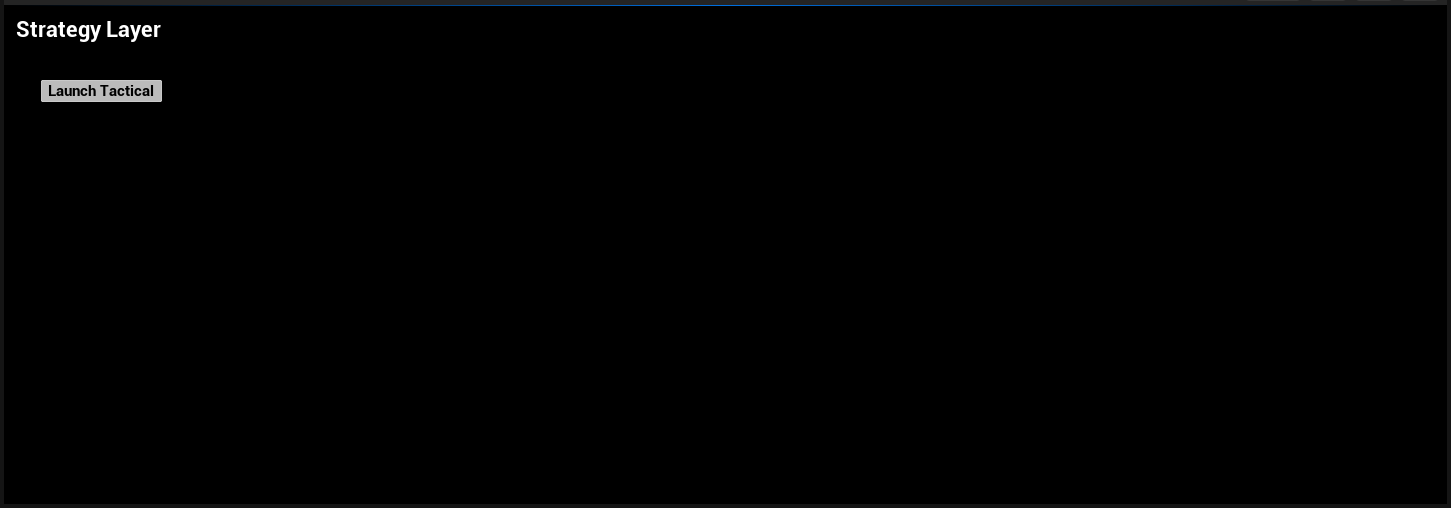
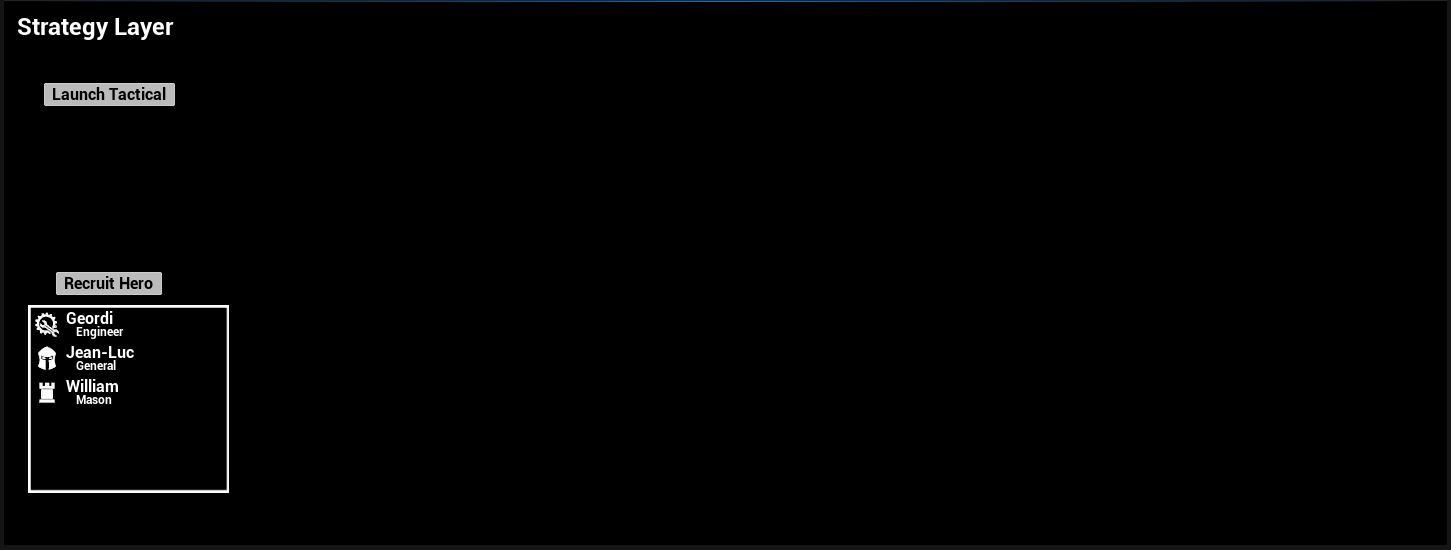
Release Notes Update
Update the Readme, devlog and pictures for the July "release"

diff --git a/README.md b/README.md
@@ -66,6 +66,7 @@ Quick Highlights of how each Starfire Plugin is being used:
 	* Various uses to broadcast gameplay events
 	* Campaign game modes broadcast a readiness event
 	* A roster event is broadcast when new heroes are added to the active list
+	* An event is broadcast in strategy just before the BattleData is destroyed to give strategy systems a chance to update based on any data that may have been returned from Tactical in that Actor
 * Starfire Assets
 	* Data Definition Library used as custom Asset Manager
 	* Data Definition used as the base for all game definition assets, eg Campaign Difficulty Definition
@@ -227,22 +228,24 @@ These actors could be Data Store Actors that are part of the data model, or othe
 
 Strategy is the gameplay that supports the long-term game progression of Uplift.
 
-As of May 2026, this consists of:
-* A HUD button which configures the state required for Tactical, randomly selects a Tactical map (using the Asset Manager and Level Metadata) and triggers a gameplay transition
+As of July 2026, this consists of:
+* A UI that lists all of the Heroes currently in the player's Roster
+* A HUD button which opens a dialog box that allows configuring a new Hero to be added to the player's Roster
+* A HUD button which opens a screen allowing hero selection and then configures the state required for starting Tactical, randomly selects a Tactical map (using the Asset Manager and Level Metadata) and triggers a gameplay transition
 * The mode handles the return from Tactical and performs some cleanup to eliminate data that is no longer relevant (and only used to transfer information back from Tactical to Strategy)
 * A pause menu (with limited functionality)
 
 Strategy provides a base class for Strategy specific World Subsystems. They leverage the a property of the Uplift World Settings to identify the map as being specific to Strategy Gameplay.
 This base class derives from the subsystems in Game Feature Subsystems (Starfire Game) to allow future feature plugins to create mode specific subsystems that also match the feature activation status.
 
-Strategy (as of May 2026)
+Strategy (as of July 2026)
 ![](./Resources/Strategy.png)
 
 #### Tactical
 
 Tactical is the mode that supports the short-term, repeated tactical gameplay of Uplift.
 
-As of May 2026, this consists of:
+As of July 2026, this consists of:
 * A HUD button which either:
 	* returns to Strategy if Tactical was launched from the Strategy game mode
 	* returns to the Shell if Tactical was launched using the Simulator option
@@ -251,11 +254,12 @@ As of May 2026, this consists of:
 	* this is only done for Tactical PIE. Strategy or the Simulator modes should already have or have configured the game data for Tactical to run correctly
 * A pause menu (with limited functionality)
 * Camera controls which can pan, zoom & rotate the camera within the Tactical map space
+* A UI that lists all the Heroes that make up the Squad that has been assigned to this Tactical game
 
 Tactical provides a base class for Tactical specific World Subsystems. They leverage the a property of the Uplift World Settings to identify the map as being specific to Tactical Gameplay.
 This base class derives from the subsystems in Game Feature Subsystems (Starfire Game) to allow future feature plugins to create mode specific subsystems that also match the feature activation status.
 
-Tactical (as of May 2026)
+Tactical (as of July 2026)
 ![](./Resources/Tactical.png)
 
 Pause Menu (as of May 2026)

diff --git a/DevLog.md b/DevLog.md
@@ -14,3 +14,17 @@ Detailed descriptions of (some) things available in the ReadMe.
 * Assets for Difficulty selection and tracking during game
 * Pause Menu
 	* Only Resume, Quit, Main Menu currently work
+	
+## July 2026
+* First pass implementation of Heroes and Hero Classes
+* Integration of the Starfire Messenger for broadcasting gameplay (fairly limited right now) related events
+	* Currently the addition of Heroes to the Roster, broadcasting that the strategy or tactical game is ready for play or that the BattleData is about to be destroyed
+* UI and VM's to support Heroes and player management of Heroes
+	* This is the initial integration of the ActorViewModels module from StarfireGame
+* Added a new Game Feature Plugin for testing DLC integration
+	* Includes a Game Feature Action that is used for incorporating DLC information into new or in-progress games
+* A unique random number stream for gameplay randomness checks (this is persistent and meant to make randomness "consistent" when loading saves)
+* Created a mechanism for determining the assets which will need bundle changes for the current game mode
+* Added a GUID to the campaign for uniquely identifying it against other campaigns (useful for save management and telemetry)
+* Improvements to the World Type based World Subsystems
+* Update to 5.8.0 Engine version (and corresponding changes to Starfire Plugins)
